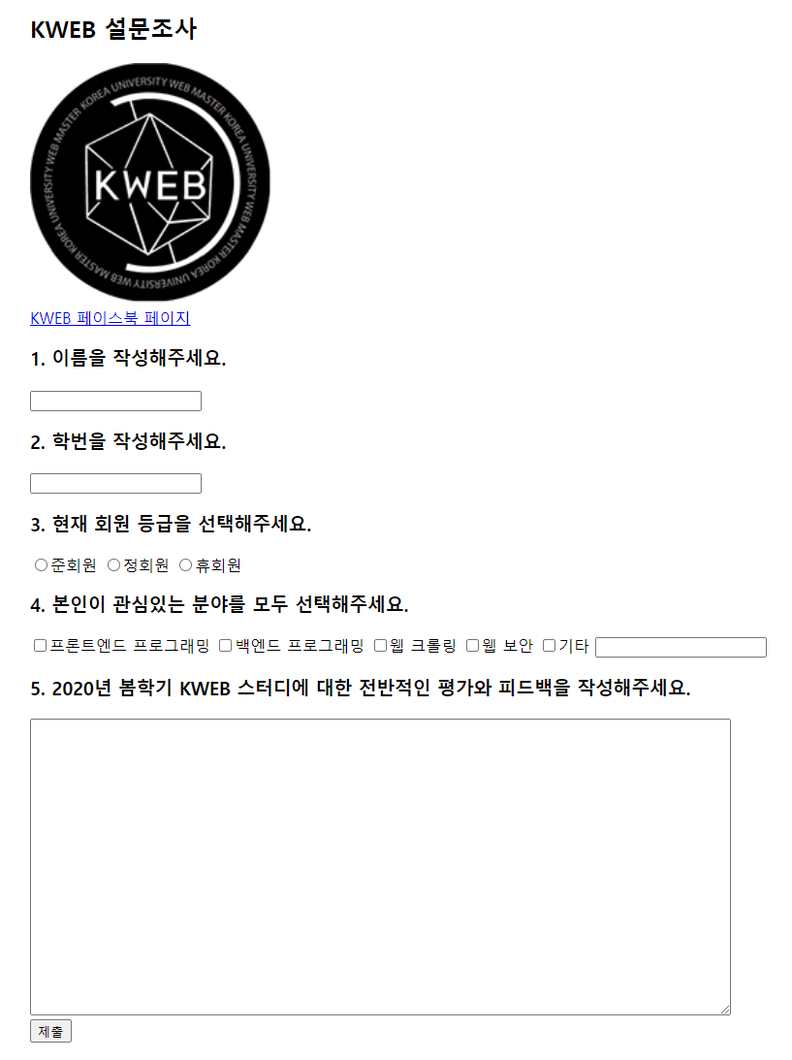
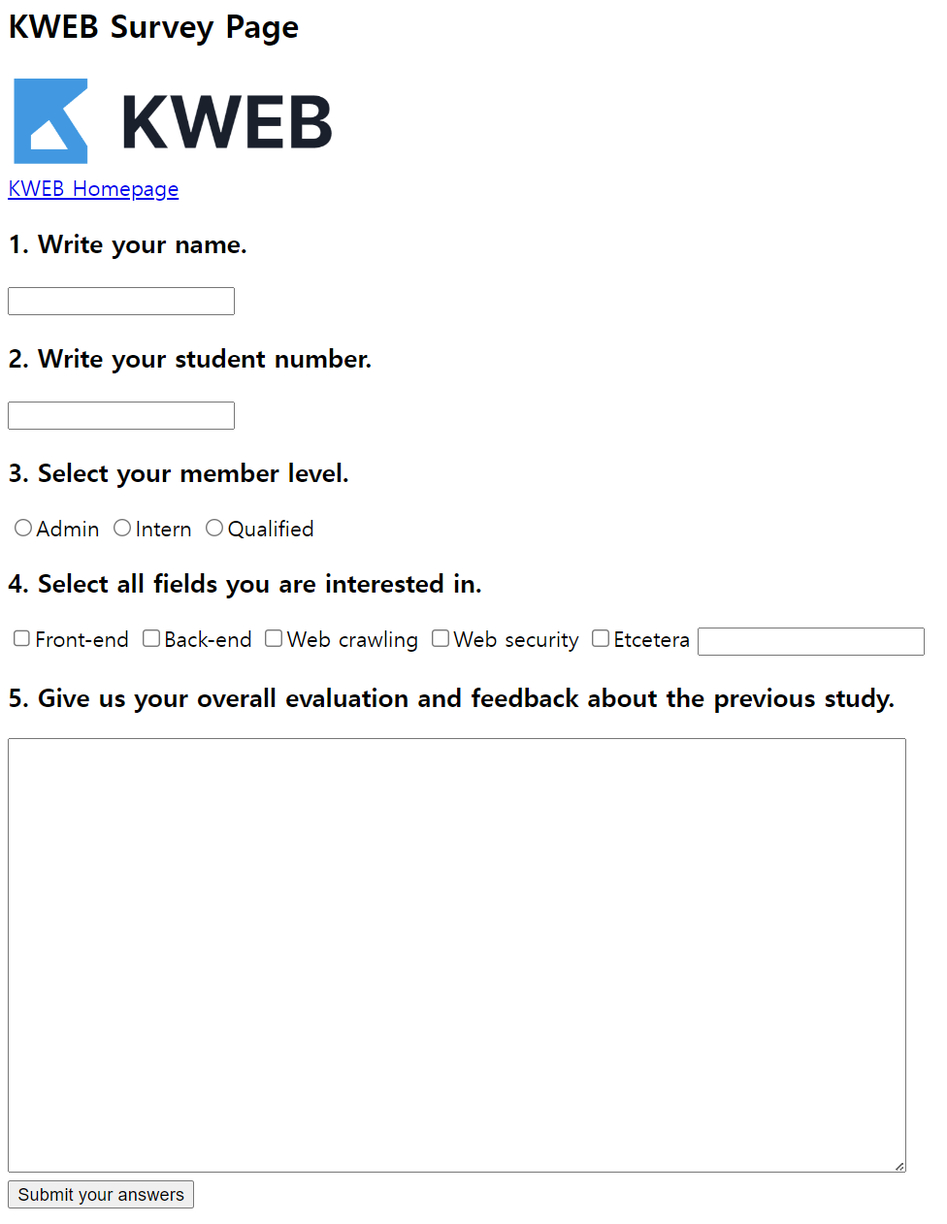
Update HTML chapter

Changed region(s): [[0.0, 0.0, 0.9486, 0.6532], [0.0, 0.9643, 0.2142, 0.9954]]

diff --git a/src/frontend/html-the-basic-structure/sections/basic-structure-of-html.tex b/src/frontend/html-the-basic-structure/sections/basic-structure-of-html.tex
@@ -2,12 +2,19 @@
 
 \subsection*{What is HTML?}
 
-HTML(HyperText Markup Language)은 웹 페이지의 구조를 체계적으로 표현하는 컴퓨터 언어이다. HTML은 웹 페이지의 가장 기본적인 뼈대를 표현하고, 웹 브라우저가 웹 페이지를 화면에 표시하는 과정인 렌더링(rendering)은 이러한 HTML 문서를 기반으로 이루어진다.
+일상생활에서 웹 서핑을 하며 방문하는 여러 웹 사이트를 생각해 보자. 어느 웹 사이트를 방문하건 가장 공통적으로 많이 보는 창 중 하나는 로그인 창일 것이다.
 
-``HTML is not a programming language''와 같은 밈(meme)에서 보듯, HTML은 구조를 서술하기 위한 언어이며 C, Java, Python 등에 존재하는 조건문, 반복문, 변수 선언 등과 관련된 기능이 전혀 존재하지 않는다. 미리 정해진 규칙에 따라 HTML을 작성하여 나타내고자 하는 \textbf{구조를 표현}한다는 개념으로 접근하면 HTML이라는 언어를 다소 쉽게 이해할 수 있을 것이다.
+\figures{fig:sign-in-example}{Sign in page of KWEB homepage}
+    {\fig{sign-in-example.png}{.7}}
+
+\figref{fig:sign-in-example}\은 KWEB 홈페이지의 로그인 창으로, 매우 간단한 형태의 로그인 창이다. 이 로그인 창은 어떻게 구성되어 있는가? 먼저 (1) 가장 위에 큰 글씨로 ``로그인''이라고 적혀 있고, (3, 5) 그 밑에 아이디와 비밀번호를 입력하기 위한 공간이 마련되어 있다. 그리고 (2, 4) 그 공간의 좌상단에 아이디 또는 비밀번호라는 텍스트가 적혀 있어 그 공간에 어떤 값을 입력해야 하는지 명시한다. 마지막으로 (6) 입력한 아이디와 비밀번호로 로그인을 하기 위해 눌러야 하는 버튼이 있다.
+
+이렇듯 웹 페이지는 텍스트, 입력란, 버튼 등의 여러 요소로 구성되어 있고, 어떤 요소들이 어떻게 웹 페이지를 구성하는지에 대한 정보가 웹 개발자에 의해 잘 명시되고 작성되어야 한다. HTML은 이러한 웹 페이지의 구조를 체계적으로 표현하기 위한 컴퓨터 언어로, 가장 기본적인 뼈대를 표현하며 웹 브라우저가 웹 페이지를 화면에 표시하는 과정인 렌더링(rendering)은 이러한 HTML 문서를 기반으로 이루어진다.
+
+HTML과 관련된 여러 농담에서 보듯, HTML은 프로그래밍 언어가 아니며 구조를 서술하기 위한 언어이다. 그렇기 때문에 C, Java, Python, JavaScript 등의 여러 프로그래밍 언어에 존재하는 조건문, 반복문, 변수 선언 등과 관련된 문법이 전혀 존재하지 않는다. 그러므로 HTML 문서를 작성할 때에는 머릿속에 미리 생각해둔 웹 페이지의 구조를 미리 정해진 규칙에 따라 표현한다고 생각하면 HTML에 비교적 쉽게 다가갈 수 있을 것이다.
 
 \subsection*{Tags and Elements}
-HTML은 그 원말에서 보듯, 구조를 서술할 때 정해진 마크로 시작하여 마크로 끝나는 언어인 마크업 언어이다. \coderef{code:html-example}\은 웹 페이지 https://www.example.com/의 HTML 문서의 일부로, 이를 관찰하며 HTML의 구조를 이해해보자. 
+HTML은 HyperText Markup Language의 약자로, 구조를 서술할 때 정해진 마크로 시작하여 마크로 끝나는 언어인 마크업 언어의 일종이다. \coderef{code:html-example}\은 웹 페이지 https://www.example.com/의 HTML 문서의 일부를 변형한 것으로, 이를 관찰하며 HTML의 구조를 이해해보자.
 
 \begin{codeenv}{code:html-example}{Example of HTML}\begin{verbatim}
 <!doctype html>
@@ -24,6 +31,7 @@ HTML은 그 원말에서 보듯, 구조를 서술할 때 정해진 마크로 시
         <p>This domain is for use in illustrative examples in documents. You may use this
         domain in literature without prior coordination or asking for permission.</p>
         <p><a href="https://www.iana.org/domains/example">More information...</a></p>
+        <!-- Comment is written like this in HTML -->
     </div>
 </body>
 </html>
@@ -32,7 +40,7 @@ HTML은 그 원말에서 보듯, 구조를 서술할 때 정해진 마크로 시
 
 Line 4를 관찰해보면, ``Example Domain''이라는 텍스트를 \cd{<title>}과 \cd{</title>}이 감싸고 있다. 이때 \cd{<title>}과 \cd{</title>}을 \textbf{태그(tag)}라고 하며, \cd{title}을 \textbf{태그 이름(tag name)}이라고 한다. 두 태그 중 앞쪽에 위치하는 태그를 시작 태그 또는 여는 태그라고 하고 뒤쪽에 위치하는 태그를 끝 태그 또는 닫는 태그라고 하며, 두 태그의 이름은 반드시 같아야 한다. 한 쌍의 태그에 둘러싸인 부분을 \textbf{내용(content)}이라고 하며, 두 태그와 그 사이에 위치한 내용이 하나의 HTML \textbf{요소(element)}를 구성한다. 요소는 HTML에서 구조를 표현하는 가장 기본 단위이며, 요소 간의 관계를 통해 구조가 표현된다.
 
-Line 4에서 각 용어에 대응하는 부분은 다음과 같다.
+정리하자면, Line 4에서 각 용어에 대응하는 부분은 다음과 같다.
 
 \begin{itemize}
     \item 태그 이름: \cd{title}
@@ -43,25 +51,28 @@ Line 4에서 각 용어에 대응하는 부분은 다음과 같다.
     \item 요소: \cd{<title>Example Domain</title>}
 \end{itemize}
 
-다만, Line 5-7에서 보듯 내용이 없고 시작 태그 그 자체로만 이루어진 요소도 존재한다. 이렇게 내용이 필요하지 않은 태그를 단일 태그라고 하며, 단일 태그에는 \cd{br}, \cd{hr}, \cd{img}, \cd{input}, \cd{meta} 등이 존재한다. 과거에는 단일 태그에도 태그의 끝을 알리기 위해 \cd{<meta charset="utf-8" />}와 같이 별도의 슬래시(\cd{/})를 삽입하기도 하였으나, 최근에는 생략하는 것이 권장된다.
+다만, Line 5-7에서 보듯 내용이 없고 시작 태그 그 자체로만 이루어진 요소도 존재한다. 이렇게 내용이 필요하지 않은 태그는 시작 태그로만 요소를 형성할 수 있고, 이를 단일 태그라고 하며, 단일 태그에는 \cd{br}, \cd{hr}, \cd{img}, \cd{input}, \cd{meta} 등이 존재한다. 과거에는 단일 태그에도 태그의 끝을 알리기 위해 \cd{<meta \textbf{charset="utf-8"} />}와 같이 별도의 슬래시(\cd{/})를 삽입하기도 하였으나, 최근에는 생략하는 것이 권장된다.
 
-Line 3-8에서는 하나의 \cd{title} 요소와 세 개의 \cd{meta} 요소가 \cd{head} 태그의 내용을 구성하는 것을 볼 수 있다. 이렇게 HTML 요소는 내부에 다른 HTML 요소를 포함할 수 있고, 다른 HTML 요소의 내용 부분에 위치함으로써 다른 HTML 요소에 포함될 수 있다. HTML에서는 요소 A와 요소 B가 요소 C에 포함되어 있을 때, 요소 A와 B를 요소 C의 하위 요소(sub element) 혹은 \textbf{자식 요소(child element)}라고 하고, 요소 C를 요소 A와 요소 B의 상위 요소(super element) 혹은 \textbf{부모 요소(parent element)}라고 한다. 또한, 요소 A를 요소 B의 \textbf{형제 요소(sibling element)}라고 한다. 이러한 포함 관계는 중첩(nested)될 수 있어, 모든 요소는 하나의 tree 구조를 이룬다.
+Line 3-8에서는 하나의 \cd{title} 요소와 세 개의 \cd{meta} 요소가 \cd{head} 태그의 내용을 구성하는 것을 볼 수 있다. 이렇게 HTML 요소는 내부에 다른 HTML 요소를 포함할 수 있고, 다른 HTML 요소의 내용 부분에 위치함으로써 다른 HTML 요소에 포함될 수 있다. 예를 들어, 요소 A와 요소 B가 요소 C에 포함되어 있을 때, 요소 A와 B를 요소 C의 하위 요소(sub element) 혹은 \textbf{자식 요소(child element)}라고 하고, 요소 C를 요소 A와 요소 B의 상위 요소(super element) 혹은 \textbf{부모 요소(parent element)}라고 한다. 또한, 요소 A를 요소 B의 \textbf{형제 요소(sibling element)}라고 한다. 이러한 포함 관계는 중첩(nested)될 수 있어, 모든 요소는 하나의 tree 구조를 이룬다.
 
-즉, Line 3-8에서 \cd{head} 요소는 \cd{title} 요소와 세 \cd{meta} 요소의 부모 요소이며, \cd{title} 요소와 세 \cd{meta} 요소는 각각 \cd{head} 요소의 자식 요소이다. 또한, \cd{title} 요소와 세 \cd{meta} 요소는 서로 형제 요소이다.
+즉, Line 3-8에서 \cd{head} 요소는 \cd{title} 요소와 세 \cd{meta} 요소의 부모 요소이며, \cd{title} 요소와 세 \cd{meta} 요소는 모두 \cd{head} 요소의 자식 요소이다. 또한, \cd{title} 요소와 세 \cd{meta} 요소는 서로 형제 요소이다.
 
-Line 5-7의 \cd{meta} 요소에서는 태그 내에 태그 이름 외의 다른 텍스트가 존재하는데, 이는 각 HTML 요소의 세부적인 성질을 표현하는 문자열이다. 예를 들어, Line 5의 \cd{meta} 요소는 \cd{charset}의 값이 \cd{utf-8}, Line 6의 \cd{meta} 요소는 \cd{http-equiv}의 값이 \cd{Content-type}, \cd{content}의 값이 \cd{text/html; charset=utf-8}이라는 뜻이다. \footnote{이렇게 데이터의 정의나 이름과 데이터의 값으로 이루어진 데이터 집합을 \textbf{키/값 쌍(key-value pair)}이라고 하며, 데이터의 정의를 키(key), 데이터의 값을 값(value)라고 한다.}\footnote{예를 들어, 어떠한 학생의 이름이 홍길동, 학번이 2021990999, 성별이 남성, 거주지는 서울특별시라고 가정해보자. 이 학생의 인적 정보를 저장한 데이터 집합에서 ``이름'', ``학번'', ``성별'', ``거주지'' 등은 key가 되고, ``홍길동'', ``2021990999'', ``남성'', ``서울특별시 성북구'' 등은 각 key에 대한 value가 된다. 대부분의 데이터는 이러한 key-value pair 형태로 표현될 수 있다.} 이렇듯 HTML의 속성은 key-value pair 형태의 데이터 집합이며, 이때 key에 해당하는 부분을 \textbf{속성(attribute)}, value에 해당하는 부분을 속성값이라고 한다. 속성값은 기본적으로 큰따옴표(\cd{"}) 내에 작성되며, 속성과 속성값은 등호(\cd{=})로 연결되고, 각 key-value pair는 공백을 사이에 두고 나열된다.
+Line 5-7의 \cd{meta} 요소에서는 태그 내에 태그 이름 외의 다른 텍스트가 존재하는데, 이는 각 HTML 요소의 세부적인 성질을 표현한다. 예를 들어, Line 5의 \cd{meta} 요소는 \cd{charset}의 값이 \cd{utf-8}이고, Line 6의 \cd{meta} 요소는 \cd{http-equiv}의 값이 \cd{Content-type}, \cd{content}의 값이 \cd{text/html; charset=utf-8}이라는 뜻이다.\footnote{이렇게 데이터의 정의나 이름과 데이터의 값으로 이루어진 데이터의 집합을 \textbf{키/값 쌍(key-value pair)}이라고 하며, 데이터의 정의를 키(key), 데이터의 값을 값(value)라고 한다.}\footnote{예를 들어, 어떠한 학생의 이름이 홍길동, 학번이 2023990999, 성별이 남성, 거주지는 서울특별시라고 가정해보자. 이 학생의 인적 정보를 저장한 데이터 집합에서 ``이름'', ``학번'', ``성별'', ``거주지'' 등은 key가 되고, ``홍길동'', ``2021990999'', ``남성'', ``서울특별시 성북구'' 등은 각 key에 대한 value가 된다. 대부분의 데이터는 이러한 key-value pair 형태로 표현될 수 있다.} 이렇듯 HTML의 속성은 기본적으로 key-value pair 형태의 데이터 집합이며, 이때 key에 해당하는 부분을 \textbf{속성(attribute)}, value에 해당하는 부분을 속성값이라고 한다. 속성값은 기본적으로 큰따옴표(\cd{"}) 내에 작성되며, 속성과 속성값은 등호(\cd{=})로 연결되고, 각 key-value pair는 공백을 사이에 두고 나열된다.
+
+또한, 주석은 Line 15와 같이 \cd{<!--}와 \cd{-->} 사이에 작성하며, 여러 줄의 코드를 주석 처리할 수 있다.
 
 이제까지 살펴본 HTML 요소의 구조를 종합해보면 \figref{fig:html-elmt-struct}\와 같이 표현될 수 있다.
 
-\figures{fig:html-elmt-struct}{Structure of HTML Element}
+\figures{fig:html-elmt-struct}{Structure of HTML element}
     {\fig{html-elmt-struct.png}{.7}}
 
-HTML에서는 예약된(reserved) 태그 이름과 속성, 그리고 속성값이 존재하며, 이들 중 자주 사용되는 것들은 \sectref{sect:commonly-used-html-tags}에서 다룰 예정이다.
+HTML에서는 예약된(reserved) 태그 이름과 속성, 그리고 속성값이 존재하며, 이들 중 자주 사용되는 것들을 \sectref{sect:commonly-used-html-tags}에서 다룰 예정이다. 예약되지 않은 태그 이름이나 속성을 임의로 만들어서 작성할 수 있으나, 이러한 태그 이름이나 속성에 기능을 직접 추가해주지 않는 이상 이러한 태그 이름이나 속성은 어떠한 기능도 하지 않는다.
 
 \subsection*{Basic Structure of HTML}
-HTML 문서의 구조에는 가장 기본적인 틀이 정해져 있다. 먼저 \cd{doctype}을 이용하여 문서가 HTML 문서임을 명시히고, 가장 상위 태그로 \cd{html} 태그, 그 아래에 \cd{head}와 \cd{body} 태그가 위치해야 한다. 코드로 나타낸다면 \coderef{code:html-basic-struct}\와 같다.\footnote{HTML에서는 주석을 \cd{<!--}, \cd{-->}로 표현한다.}
+HTML 문서의 구조에는 가장 기본적인 틀이 정해져 있다. 먼저 \cd{doctype}을 이용하여 문서가 HTML 문서임을 명시히고, 가장 상위 태그로 \cd{html} 태그, 그 아래에 \cd{head}와 \cd{body} 태그가 위치해야 한다. 코드로 나타낸다면 \coderef{code:html-basic-struct}\와 같다.
+\clearpage
 
-\begin{codeenv}{code:html-basic-struct}{Basic Structure of HTML}
+\begin{codeenv}{code:html-basic-struct}{Basic structure of HTML}
 \begin{verbatim}
 <!doctype html>
 <html>
@@ -78,4 +89,4 @@ HTML 문서의 구조에는 가장 기본적인 틀이 정해져 있다. 먼저 
 
 \cd{head} 태그는 문서에 대한 전반적인 정보를 담고 있는 태그로, 이 태그에는 \cd{title}, \cd{meta}, \cd{link} 등 다양한 태그들이 사용된다. 이번 절에서는 \cd{title}과 \cd{meta} 두 태그만 살펴보자. 먼저, \cd{title} 태그 내부의 텍스트는 웹 페이지의 제목으로, 웹 브라우저를 통해 웹 페이지에 접속했을 때 브라우저의 상단에 표시된다. \cd{meta} 태그는 HTML 문서의 인코딩 방법, viewport, 키워드 등 중요한 정보들을 지정할 수 있는 태그이다.
 
-\cd{body} 태그는 웹 페이지에서 사용자에게 보여질 부분이 포함되는 태그이다. 개발자가 웹 페이지를 통해 사용자에게 보여주고자 하는 텍스트, 이미지 등의 내용은 \cd{body} 태그 안에 작성되어야 하며, \sectref{sect:commonly-used-html-tags}에서 본격적으로 웹 페이지의 내용을 작성하는 방법을 다룬다.
+\cd{body} 태그는 웹 페이지에서 사용자에게 보여지는 부분을 담고 있는 태그로, 텍스트, 이미지 등의 내용은 \cd{body} 태그 안에 작성되어야 한다. \sectref{sect:commonly-used-html-tags}에서는 본격적으로 웹 페이지의 내용을 작성하는 방법과 필요한 문법을 다룬다.

diff --git a/src/frontend/html-the-basic-structure/sections/class-and-id-attributes.tex b/src/frontend/html-the-basic-structure/sections/class-and-id-attributes.tex
@@ -1,31 +1,31 @@
 \section{Class and Id Attributes}\label{sect:class-and-id-attributes}
 
-\sectref{sect:commonly-used-html-tags}에서 HTML 문서를 작성하는 기본적인 방법에 대하여 학습하였다. \chapref{ch:css-designing-html}부터는 CSS와 JS를 배우면서 HTML에 적용하는 과정을 다루는데, CSS에서는 각 요소에 원하는 디자인을 적용할 수 있고, JS에서는 각 요소를 추가 및 삭제하거나, 그 속성을 수정하는 등의 작업을 할 수 있다. 이러한 CSS와 JS를 HTML 문서에 적용할 때, 특정 요소 혹은 특정 분류의 모든 요소에 CSS나 JS를 적용하게 된다.
+\sectref{sect:commonly-used-html-tags}에서 HTML 문서를 작성하는 기본적인 방법에 대하여 학습하였다. \chapref{ch:css-designing-html}부터는 CSS와 JS를 HTML에 적용하는 과정을 다루는데, CSS에서는 각 요소에 원하는 디자인을 적용할 수 있고, JS에서는 각 요소를 추가 및 삭제하거나, 그 속성을 수정하는 등의 작업을 할 수 있다. 이러한 CSS와 JS를 HTML 문서에 적용할 때, 특정 요소 혹은 특정 분류의 모든 요소에 CSS나 JS를 적용하게 된다.
 
-\sectref{sect:commonly-used-html-tags}에서 HTML 문서를 구조화하기 위해 \cd{div}나 \cd{span} 태그의 쓰임새에 대해 학습하였다. 그러나 태그만으로는 기능이나 역할 등 개발자가 원하는 분류 기준에 따라 HTML 요소들을 분류하는 것은 어려우며, HTML 문서가 매우 길어진다면 단순히 태그 이름만으로 요소들을 구분하는 것은 불가능하다.
+\sectref{sect:commonly-used-html-tags}에서 HTML 문서를 구조화하기 위해 \cd{div}나 \cd{span} 태그의 쓰임새에 대해 다루었다. 그러나 태그만으로는 기능이나 역할 등 개발자가 원하는 기준에 따라 HTML 요소들을 분류하는 것은 어려우며, HTML 문서가 매우 길어진다면 단순히 태그 이름만으로 요소들을 구분하는 것은 불가능하다.
 
-이렇게 특정 기준에 따라 요소들을 분류하거나, 특정 HTML 요소를 지정할 때 필요한 속성이 \textbf{class}와 \textbf{id}이다. Class와 id는 모든 HTML 요소에 적용할 수 있으며, CSS, JS를 HTML과 연동할 때 매우 중요한 역할을 한다.
+이렇게 특정 기준에 따라 요소들을 분류하거나, 특정 HTML 요소를 지정할 때 필요한 속성이 \textbf{class}와 \textbf{ID}이다. Class와 ID는 모든 HTML 요소에 적용할 수 있으며, CSS, JS를 HTML과 연동할 때 매우 중요한 역할을 한다.
 
 \subsection*{Class Attribute}
 먼저, class 속성은 HTML 요소들을 \textbf{특정한 기준에 따라 분류(classify)}할 때 사용되는 속성이며, class 속성의 값을 class name이라고 한다. 특정한 기준으로 분류하였을 때 하나의 묶음으로 묶이는 요소들에는 각각 같은 이름의 class를 사용한다. 하나의 HTML 요소는 여러 class를 가질 수 있고, 각 class name은 공백을 이용하여 구분한다. \coderef{code:class-attr-ex}\은 class 속성을 활용한 예제이다.
 
-\begin{codeenv}{code:class-attr-ex}{Class Attributes Example}\begin{verbatim}
+\begin{codeenv}{code:class-attr-ex}{Example of class attribute}\begin{verbatim}
 <div class="page-thumbnail new">
     <img src="/resources/week2_handout.jpg">
     <span class="page-title">
-        <a href="/study/201R/3">Week 2 Handout</a>
+        <a href="/study/frontend/3">Week 2 Handout</a>
     </span>
 </div>
 <div class="page-thumbnail">
     <img src="/resources/week1_asgmt.jpg">
     <span class="page-title">
-        <a href="/study/201R/2">Week 1 Assignment</a>
+        <a href="/study/frontend/2">Week 1 Assignment</a>
     </span>
 </div>
 <div class="page-thumbnail">
     <img src="/resources/week1_handout.jpg">
     <span class="page-title">
-        <a href="/study/201R/1">Week 1 Assignment</a>
+        <a href="/study/frontend/1">Week 1 Assignment</a>
     </span>
 </div>
 \end{verbatim}
@@ -33,9 +33,9 @@
 \clearpage
 
 \subsection*{Id Attribute}
-Id 속성은 \textbf{특정한 HTML 요소 하나를 식별(identification)}하기 위해 사용되는 속성이다. 하나의 요소는 여러 id를 가질 수 없고, 특정 id의 값을 갖는 HTML 요소가 여러 개가 될 수 없다.\footnote{이 규칙을 위반하더라도 HTML 문서는 정상적으로 렌더링된다.} 다만, 각 HTML 요소는 class와 id를 동시에 가질 수 있다. \coderef{code:id-attr-ex}\은 id 속성을 활용한 예제이다.
+ID 속성은 \textbf{특정한 HTML 요소 하나를 식별(identification)}하기 위해 사용되는 속성이다. 하나의 요소는 여러 ID를 가질 수 없고, 특정 ID의 값을 갖는 HTML 요소가 여러 개가 될 수 없다.\footnote{이 규칙을 위반하더라도 HTML 문서는 정상적으로 렌더링된다.} 다만, 각 HTML 요소는 class와 ID를 동시에 가질 수 있다. \coderef{code:id-attr-ex}\은 ID 속성을 활용한 예제이다.
 
-\begin{codeenv}{code:id-attr-ex}{Id Attributes Example}\begin{verbatim}
+\begin{codeenv}{code:id-attr-ex}{Example of ID attribute}\begin{verbatim}
 <div id="article-form">
     <input id="article-title" name="title">
     <textarea id="article-content" name="content"></textarea>
@@ -49,6 +49,6 @@ Class name이나 id를 작성할 때 반드시 준수해야 하는 작명 규칙
 
 \begin{itemize}
     \item 대문자의 사용은 지양하고, 소문자로만 구성한다. 숫자로 시작하지 않는다.
-    \item 이름은 class나 id의 의미에 잘 부합하여 어떠한 기준으로 지어진 이름인지 알기 쉽게 작명한다.
+    \item 이름은 class나 ID의 의미에 잘 부합하여 어떠한 기준으로 지어진 이름인지 알기 쉽게 작명한다.
     \item 여러 단어의 조합은 하이픈(\cd{-})으로 연결하여 작명한다. (예: \cd{multiple-words})
 \end{itemize}

diff --git a/src/appendix/exercise-answers/sections/html-exercise-answers.tex b/src/appendix/exercise-answers/sections/html-exercise-answers.tex
@@ -10,47 +10,45 @@
 </head>
 <body>
     <div id="survey-header">
-        <h2>KWEB 설문조사</h2>
+        <h2>KWEB Survey Page</h2>
         <div id="kweb-logo">
-            <img src="http://info.korea.ac.kr/_res/info/img/community/img_kweb.gif"
-                 alt="KWEB Logo" width=250>
+            <img src="https://i.imgur.com/hSSFVSw.png" alt="KWEB Logo" width=250>
         </div>
-        <a href="https://www.facebook.com/kwebfamily/">KWEB 페이스북 페이지</a>
+        <a href="https://kwebofficial.com/">KWEB Homepage</a>
     </div>
     <div id="survey-body">
         <div class="survey-question">
-            <h3>1. 이름을 작성해주세요.</h3>
+            <h3>1. Write your name.</h3>
             <input type="text" name="name">
         </div>
         <div class="survey-question">
-            <h3>2. 학번을 작성해주세요.</h3>
+            <h3>2. Write your student number.</h3>
             <input type="text" name="studentNumber">
         </div>
         <div class="survey-question">
-            <h3>3. 현재 회원 등급을 선택해주세요.</h3>
-            <input type="radio" name="level" value="intern">준회원
-            <input type="radio" name="level" value="qualified">정회원
-            <input type="radio" name="level" value="break">휴회원
+            <h3>3. Select your member level.</h3>
+            <input type="radio" name="level" value="admin">Admin
+            <input type="radio" name="level" value="intern">Intern
+            <input type="radio" name="level" value="qualified">Qualified
         </div>
         <div class="survey-question">
-            <h3>4. 본인이 관심있는 분야를 모두 선택해주세요.</h3>
-            <input type="checkbox" name="field" value="frontend">프론트엔드 프로그래밍
-            <input type="checkbox" name="field" value="backend">백엔드 프로그래밍
-            <input type="checkbox" name="field" value="crawling">웹 크롤링
-            <input type="checkbox" name="field" value="security">웹 보안
-            <input type="checkbox" name="field" value="etc">기타
+            <h3>4. Select all fields you are interested in.</h3>
+            <input type="checkbox" name="field" value="frontend">Front-end
+            <input type="checkbox" name="field" value="backend">Back-end
+            <input type="checkbox" name="field" value="crawling">Web crawling
+            <input type="checkbox" name="field" value="security">Web security
+            <input type="checkbox" name="field" value="etc">Etcetera
             <input type="text" name="fieldText">
         </div>
         <div class="survey-question">
             <h3>
-                5. 2020년 봄학기
-                KWEB 스터디에 대한 전반적인 평가와 피드백을 작성해주세요.
+                5. Give us your overall evaluation and feedback about the previous study.
             </h3>
             <textarea name="feedbacks" cols="100" rows="20"></textarea>
         </div>
     </div>
     <div id="survey-footer">
-        <button type="submit">제출</button>
+        <button type="submit">Submit your answers</button>
     </div>
 </body>
 </html>

diff --git a/src/frontend/html-the-basic-structure/sections/html-exercises.tex b/src/frontend/html-the-basic-structure/sections/html-exercises.tex
@@ -2,14 +2,14 @@
 
 \subsection*{\excstref{exc:simple-survey-page}: Simple Survey Page}
 
-KWEB 동아리 설문 조사에 쓰일 HTML 문서를 \figref{fig:kweb-survey-page}\와 같이 작성하여라. KWEB 로고와 페이스북 페이지의 주소는 아래와 같으며, HTML의 표준 구조를 준수하고, 각종 태그를 사용해서 구현한다. 제시되지 않았더라도 각 요소에 적당한 속성과 속성값을 적절히 부여하고, \cd{div}, \cd{span} 태그와 class, id 등을 적절히 활용하여 HTML 문서를 구조화하고, 가독성을 높인다.
+KWEB 동아리 설문 조사에 쓰일 HTML 문서를 \figref{fig:kweb-survey-page}\와 같이 작성하여라. KWEB 로고 이미지와 홈페이지 주소는 아래와 같으며, HTML의 표준 구조를 준수하고, 각종 태그를 사용해서 구현한다. 제시되지 않았더라도 각 요소에 적당한 속성과 속성값을 적절히 부여하고, \cd{div}, \cd{span} 태그와 class, id 등을 적절히 활용하여 HTML 문서를 구조화하고, 가독성을 높여라.
 
 \begin{itemize}
-    \item KWEB 로고: http://info.korea.ac.kr/\_res/info/img/community/img\_kweb.gif
-    \item KWEB 페이스북 페이지: https://www.facebook.com/kwebfamily/
+    \item KWEB 로고: https://i.imgur.com/hSSFVSw.png
+    \item KWEB 페이스북 페이지: https://kwebofficial.com/
 \end{itemize}
 
-\figures{fig:kweb-survey-page}{KWEB Survey Page Example}
+\figures{fig:kweb-survey-page}{KWEB survey page example}
     {\fig{kweb-survey-page.png}{.6}}
 
 \subsection*{\excstref{exc:structurizing-html-code}: Structurizing HTML Code}

diff --git a/src/preface/preface/sections/introduction-to-web.tex b/src/preface/preface/sections/introduction-to-web.tex
@@ -12,7 +12,7 @@
 
 반대로, 사용자에게 직접적으로 보여지지 않는 영역도 있다. 사용자의 요청에 맞게 적절한 웹 페이지를 구성하여 전달해주는 로직, 게시물이나 댓글, 블로거의 정보를 저장하고 읽어오는 기능, 회원에 따라 글을 작성할 권한을 부여할지, 댓글을 수정할 권한을 부여할지 결정하는 로직 등이 있을 것이다. 이렇게 사용자에게 직접적으로 보여지지 않는 영역을 \textbf{backend}라고 부르고, 이러한 로직은 서버상에서 동작하기 때문에 \textbf{server-side}라고도 한다.
 
-\figures{fig:webapp-schema}{How Typical Web Application Works}{
+\figures{fig:webapp-schema}{How typical web application works}{
     \fig{webapp-schema.png}{.6}
 }
 
